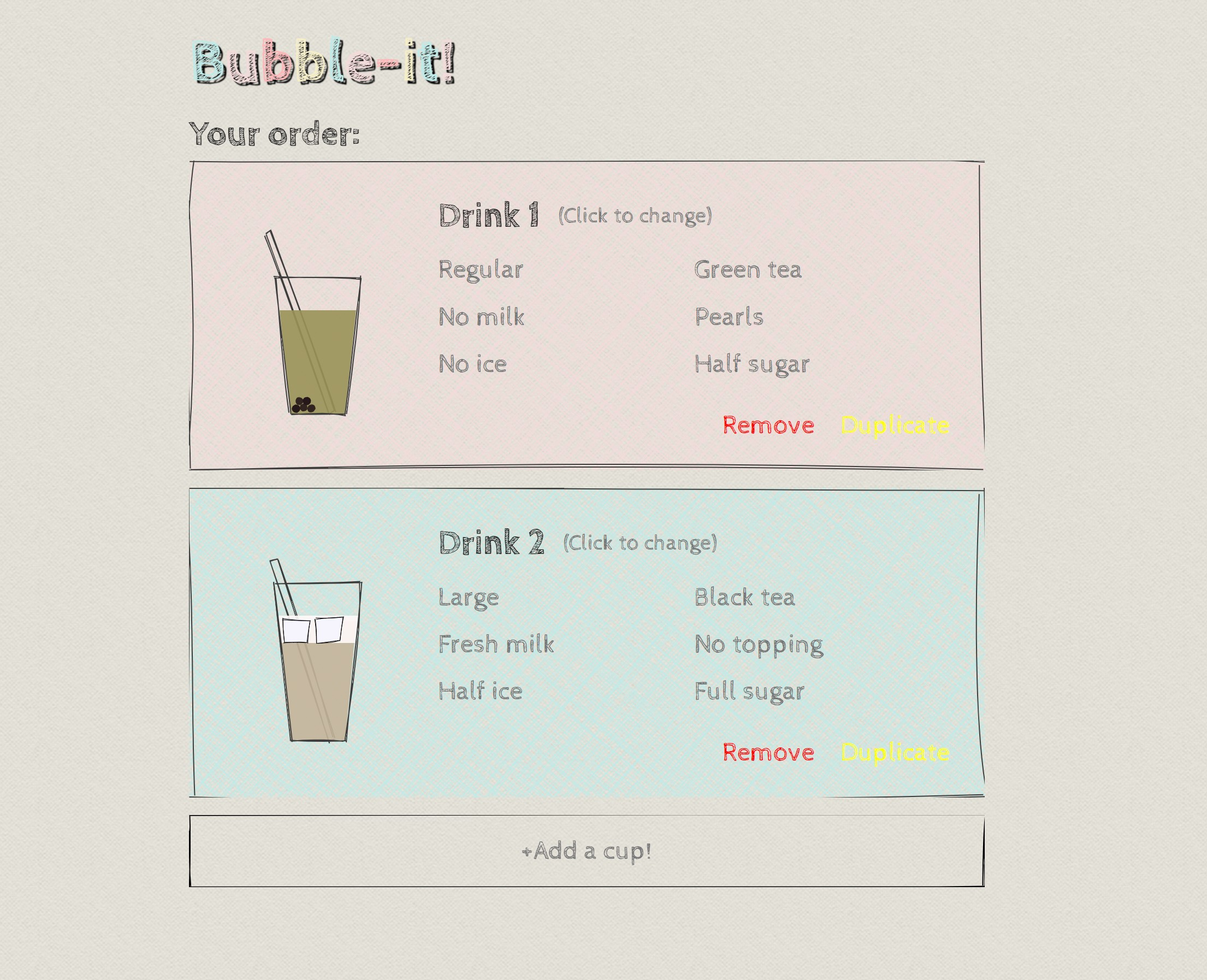
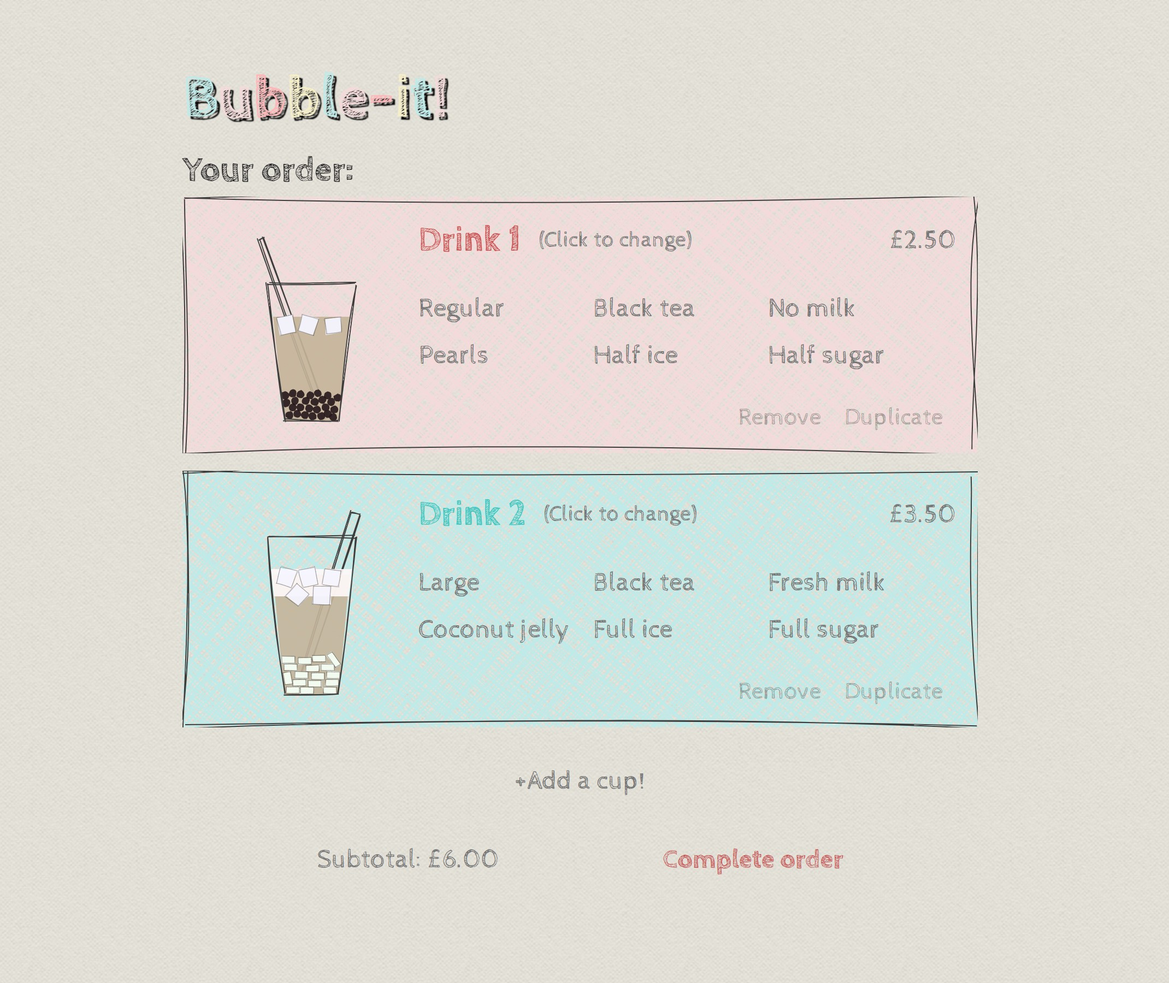
Update Bubble-it image & desc, & Mind Garden URL

diff --git a/index.html b/index.html
@@ -329,7 +329,7 @@
             Session variables and optional cookies are used to keep the user logged in. The front end was built with Bootstrap.
           </p>
           <div class="portfolio-buttons">
-            <a href="http://angusmacraetesthostingpackage-com.stackstaging.com/" target="_blank" class="primary">Live Site</a>
+            <a href="http://mind-garden-com.stackstaging.com/" target="_blank" class="primary">Live Site</a>
             <a href="https://github.com/AngusMacrae/mind-garden" target="_blank" class="secondary">View Repo</a>
           </div>
         </article>
@@ -347,6 +347,7 @@
           <p>
             I'm a huge fan of bubble tea and love writing code, so I combined the two. Bubble-it is a widget for customising bubble tea orders.
           </p>
+          <p>Users can select the size, topping, sweetness etc and the image updates reactively to display their selected configuration.</p>
           <p>
             The app was made with Vue, and SVGs were used to achieve the hand-drawn visual style.
           </p>
